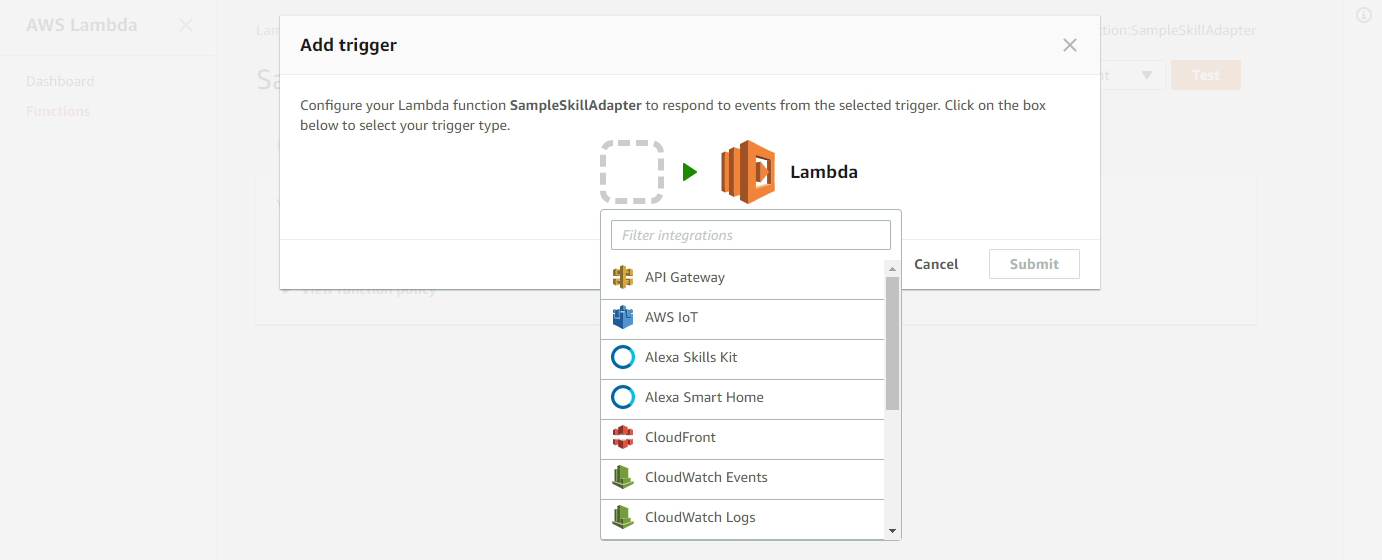
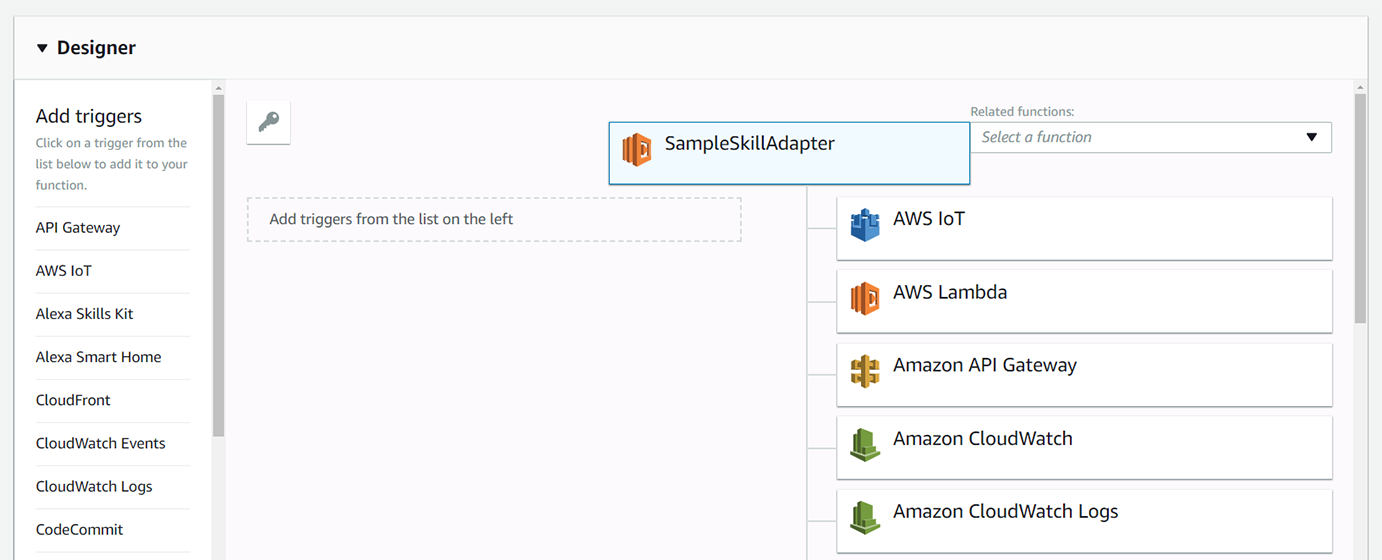
Documentation update for Sample Backend (#56)
Documentation fixes for sample_backend

Updating documentation to align with the code and new screenshots for interface updates.

More updates to Postman section

Correcting the documentation to work with as-built.

Updates to last sections of instructions

Fixed inconsistencies in the documentation with the as-built structure of the Events and Endpoints resources in Postman. Additionally, the images and naming of the AWS IoT device was corrected.

Updated Postman Collection including minor changes and bump to 2.1 version.

diff --git a/sample_backend/docs/006-setup-create-endpoints.md b/sample_backend/docs/006-setup-create-endpoints.md
@@ -1,83 +1,78 @@
 # Step 6: Create the Endpoints
 Create endpoints to be discovered during the Alexa Smart Home Skill Discovery.
 
+#### <span style="color:#aaa">6.1</span> Collect the User Id
+The JSON template for creating an endpoint defaults the User Id to `0`. This is useful for testing simulated calls to your AWS Lambda for a variety of directives with a known (invalid) User Id. To associate the device with an actual Amazon account, the correct User Id obtained with the access token must be used. During skill enablement, the credentials are saved to DynamoDB into the SampleUsers table for reference.
+> The credentials in the SampleUsers table are for development reference only and should be stored securely in a production environment.
 
-#### <span style="color:#aaa">6.1</span> Set Up Postman 
-Postman is a tool for managing and executing HTTP requests and is very useful for API development and usage.
+<span style="color:#ccc">6.2.1</span> Go to https://console.aws.amazon.com/dynamodb/home?region=us-east-1#tables:selected=SampleUsers and select the **Items** tab.
 
-##### <span style="color:#aaa">6.1.1</span> Install Postman 
-<span style="color:#ccc">6.1.1</span> Go to [getpostman.com](https://www.getpostman.com) and download and install the correct Postman application for your platform.
-
-<span style="color:#ccc">6.1.2</span> Download the Postman Sample Smart Home Collection from https://raw.githubusercontent.com/alexa/alexa-smarthome/master/sample_backend/lambda/lambda_api/sample_backend.postman_collection.json into the `Alexa-SmartHome-Sample` directory on your Desktop. 
-
-##### <span style="color:#aaa">6.1.2</span> Import the _Alexa Smart Home (sample_backend)_ Postman collection
-
-<span style="color:#ccc">6.1.2.1</span> Open Postman.
-
-<span style="color:#ccc">6.1.2.2</span> In Postman, click **Import** from the main menu and browse to the `sample_backend.postman_collection.json` file or drag it onto the _Import_ dialog. 
-
-##### <span style="color:#aaa">6.1.3</span> Create a Postman environment
-To fill out the variable values of the configuration use a Postman environment to store configuration-specific values.
-
-<span style="color:#ccc">6.1.3.1</span> In the top right of Postman, click the gear icon to open the _Environment options_ drop down menu and select **Manage Environments**.
-
-![Postman - Manage Environments](img/6.1.3.1-postman-manage-environments.png "Postman - Manage Environments")
-
-<span style="color:#ccc">6.1.3.2</span> In opened _MANAGE ENVIRONMENTS_ dialog, click the **Add** in the bottom right.
-
-<span style="color:#ccc">6.1.3.3</span> For the _Environment Name_ enter `Alexa Smart Home (sample_backend)`.
-
-<span style="color:#ccc">6.1.3.4</span> Add a **Key** value called  `aws_region` and set its **Value** to `us-east-1`.
-
-<span style="color:#ccc">6.1.3.5</span> Add another **Key** value called  `endpoint_api_id` and set its **Value** to the [EndpointApiId] value from the `config.txt` file.
-
-<span style="color:#ccc">6.1.3.6</span> Click the **Add** button again to save the environment settings.
-
-<span style="color:#ccc">6.1.3.6</span> Close the _MANAGE ENVIRONMENTS_ dialog and in the top right of Postman select the newly created _Alexa Smart Home (sample_backend)_ environment from the  environment drop down menu.
-
-#### <span style="color:#aaa">6.2</span> Create Endpoints 
-Use Postman to generate endpoints.
-
-<span style="color:#ccc">6.2.1</span> Browse to the AWS IoT console at https://console.aws.amazon.com/iotv2/home?region=us-east-1#/thinghub and note the existing _Things_, if any.
-
-<span style="color:#ccc">6.2.2</span> In Postman, select the **POST** _/endpoints_ resource from the left menu and then click the **Send** button in the top right.
-
-<span style="color:#ccc">6.2.3</span> Return to the [AWS IoT Things console](https://console.aws.amazon.com/iotv2/home?region=us-east-1#/thinghub) and refresh the page. A new `black_switch` Thing should be available.
-
-<span style="color:#ccc">6.2.4</span> Click on the `black_switch` Thing instance to inspect its attributes. They should look like the following:
-
-![black_switch Thing Inpection - Manage Environments](img/6.2.4-thing-inspection.png "black_switch Thing Inspection")
-
-> Note that the user_id is set to 0. This is a default value useful for development. However, Discovery for the Smart Home Skill would not find this device since it is expecting a user_id in the form of a profile from Login with Amazon.
-
-<span style="color:#ccc">6.2.5</span> Go to https://console.aws.amazon.com/dynamodb/home?region=us-east-1#tables:selected=SampleUsers and select the **Items** tab.
-
-<span style="color:#ccc">6.2.6</span> In the list of _SampleUsers_ select the first entry UserId that looks like the following format: 
+<span style="color:#ccc">6.2.2</span> In the list of _SampleUsers_ select the first entry UserId column that has the following format:
 ```
 amzn1.account.XXXXXXXXXXXXXXXXXXXXXXXXXXXX
 ```
-<span style="color:#ccc">6.2.7</span> Copy the UserId value and save it to the [user_id] section of the `config.txt` file.
+<span style="color:#ccc">6.2.3</span> Copy the UserId value and save it to the [user_id] section of the `config.txt` file. The User Id is used to identify devices associated with the Amazon account.
 
-<span style="color:#ccc">6.2.8</span> Return to the [AWS IoT Things console](https://console.aws.amazon.com/iotv2/home?region=us-east-1#/thinghub) and select the `black_switch` Thing to view its attributes.
+#### <span style="color:#aaa">6.2</span> Set Up Postman
+Postman is a tool for managing and executing HTTP requests and is very useful for API development and usage. To use it for the sample code, it must first be installed if not currently available on your system and have a sample environment configured for use.
 
-<span style="color:#ccc">6.2.9</span> In the top right of the `black_switch` attributes click **Edit**.
+##### <span style="color:#aaa">6.2.1</span> Install Postman
+<span style="color:#ccc">6.2.1</span> Go to [getpostman.com](https://www.getpostman.com) and download and install the correct Postman application for your platform.
 
-<span style="color:#ccc">6.2.10</span> On the _Edit black_switch_ attributes page, set the value of the _user_id_ **Attribute key** to the [user_id] stored in the `config.txt` file. This associates the `black_switch` thing with that user profile.
+<span style="color:#ccc">6.2.2</span> Download the Postman Sample Smart Home Collection from https://raw.githubusercontent.com/alexa/alexa-smarthome/master/sample_backend/lambda/lambda_api/sample_backend.postman_collection.json into the `Alexa-SmartHome-Sample` directory on your Desktop.
 
-> If you want to create other devices, repeat this section and update the POST body of the /endpoints call to look something like the following and click **Send** to POST it to the endpoint API:
+##### <span style="color:#aaa">6.2.2</span> Import the *Alexa Smart Home (sample\_backend)* Postman collection
 
-```
-{
-  "event": {
-    "endpoint": {
-    	"userId" : "INSERT_YOUR_USER_ID_FROM_CONFIG.TXT",
-    	"id": "white_switch",
-    	"state": "OFF",
-    	"type": "SWITCH"
-    }
-  }
-}
-```
+<span style="color:#ccc">6.2.2.1</span> Open Postman.
+
+<span style="color:#ccc">6.2.2.2</span> In Postman, click **Import** from the main menu and browse to the `sample_backend.postman_collection.json` file or drag it onto the _Import_ dialog.
+
+##### <span style="color:#aaa">6.2.3</span> Create a Postman environment
+To fill out the variable values of the configuration use a Postman environment to store configuration-specific values. The keys defined in double curly braces like `{{endpoint_api_id}}` will be auto-expanded in the URLs for the imported collection.
+
+<span style="color:#ccc">6.2.3.1</span> In the top right of Postman, click the gear icon to open the _Environment options_ drop down menu and select **Manage Environments**.
+
+![Postman - Manage Environments](img/6.2.3.1-postman-manage-environments.png "Postman - Manage Environments")
+
+<span style="color:#ccc">6.2.3.2</span> In opened _MANAGE ENVIRONMENTS_ dialog, click the **Add** in the bottom right.
+
+<span style="color:#ccc">6.2.3.3</span> For the _Environment Name_ enter `Alexa Smart Home (sample_backend)`.
+
+<span style="color:#ccc">6.2.3.4</span> Add a **Key** value called  `aws_region` and set its **Value** to `us-east-1`.
+
+<span style="color:#ccc">6.2.3.5</span> Add another **Key** value called  `endpoint_api_id` and set its **Value** to the [EndpointApiId] value from the `config.txt` file.
+
+<span style="color:#ccc">6.2.3.6</span> Click the **Add** button again to save the environment settings.
+
+<span style="color:#ccc">6.2.3.7</span> Close the _MANAGE ENVIRONMENTS_ dialog and in the top right of Postman select the newly created *Alexa Smart Home (sample\_backend)* environment from the  environment drop down menu.
+
+
+#### <span style="color:#aaa">6.3</span> Create Endpoints
+Use Postman to generate endpoints by selecting and sending stored requests from the Alexa Smart Home (sample_backend) collection.
+
+<span style="color:#ccc">6.3.1</span> In Postman, from the left _Collections_ menu select and open the *Alexa Smart Home (sample\_backend)* folder. In the *Endpoints* sub-folder, open the **POST** _/endpoints (Sample Black Switch)_ resource from the left menu.
+
+<span style="color:#ccc">6.3.2</span> In Postman, select the **POST** _/endpoints (Sample Black Switch)_ resource from the left menu and then select the Body tab to show the raw body that would be sent from this request.
+
+![Postman - Collections > Endpoints > Body](img\6.3.2-postman-collections-endpoints.png "Postman - Collections > Endpoints > Body")
+
+<span style="color:#ccc">6.3.3</span> In the JSON in the _raw_ section, replace the `userId` value (with a default of `0`) with your User Id from the config.txt file. This will associate the created thing with an Amazon account for device discovery.
+
+> Note that the user_id defaults to 0 because this is useful for development and identifying a device created programmatically. However, Discovery for the Smart Home Skill would not find this device since it is expecting a user_id in the form of a profile from Login with Amazon.
+
+<span style="color:#ccc">6.3.4</span> Once you have added your User Id value, click the **Send** button in the top right to send and create the endpoint.
+
+<span style="color:#ccc">6.3.5</span> Return to the [AWS IoT Things console](https://console.aws.amazon.com/iotv2/home?region=us-east-1#/thinghub) and refresh the page. A new thing of the type `SAMPLESWITCH` should be available. It's name will be a generated GUID.
+
+<span style="color:#ccc">6.3.6</span> Click on the thing identified with a thing type of `SAMPLESWITCH` to inspect its attributes. They should look something like the following:
+
+![AWS IoT - SAMPLESWITCH](img/6.3.6-thing-sampleswitch.png "AWS IoT - SAMPLESWITCH")
+
+The Globally Unique ID (GUID) representing the name of this device will correspond to an entry in the **SampleEndpointDetails** table that holds the details of the device for discovery. You can browse to the [SampleEndpointDetails DynamoDB Table](https://console.aws.amazon.com/dynamodb/home?region=us-east-1#tables:selected=SampleEndpointDetails) and view the items entry to see the details stored in AWS.
+
+With this Sample Switch Thing defined in the account you are using for Alexa, you should now be able to discover it as a virtual device.
+
+> If you want to create other devices, look at the other options in the samples provided in the Postman collection and update the userId value in the POST body of the resource. Click **Send** to POST it to the endpoint API
 
 <br>
 

diff --git a/sample_backend/docs/003-setup-create-skill-smarthome.md b/sample_backend/docs/003-setup-create-skill-smarthome.md
@@ -3,9 +3,9 @@ Create an Alexa Smart Home Skill that will process the Smart Home commands.
 
 #### <span style="color:#aaa">3.1</span> Navigate to the Alexa Skills page
 
-<span style="color:#ccc">3.1.1</span> In a web browser to the Amazon Developer Console at [https://developer.amazon.com/home.html](https://developer.amazon.com/home.html). If not already authenticated, you may have to _Sign In_ with your Amazon Developer Account . 
+<span style="color:#ccc">3.1.1</span> In a web browser to the Amazon Developer Console at [https://developer.amazon.com/home.html](https://developer.amazon.com/home.html). If not already authenticated, you may have to _Sign In_ with your Amazon Developer Account .
 
-<span style="color:#ccc">3.1.2</span> Select the _Alexa_ tab from the top menu. 
+<span style="color:#ccc">3.1.2</span> Select the _Alexa_ tab from the top menu.
 
 <span style="color:#ccc">3.1.3</span> On the _Get started with Alexa_ page and in the _Alexa Skills Kit_ box, click the **Get Started >** button.
 
@@ -15,13 +15,13 @@ Create an Alexa Smart Home Skill that will process the Smart Home commands.
 
 <span style="color:#ccc">3.2.1</span> On the _Skill Information_ tab, from the **Skill Type** radio buttons select **Smart Home Skill API**
 
-<span style="color:#ccc">3.2.2</span> Leave the language as English. 
+<span style="color:#ccc">3.2.2</span> Leave the language as English.
 
 > For more information on adding another language to your skill, see [Develop Smart Home Skills in Multiple Languages](https://developer.amazon.com/docs/smarthome/develop-smart-home-skills-in-multiple-languages.html).
- 
+
 <span style="color:#ccc">3.2.3</span> Enter `Sample Smart Home Skill` as the Name of the skill.
 
-<span style="color:#ccc">3.2.4</span> Under Payload Version, verify **v3 (preferred)** is selected. 
+<span style="color:#ccc">3.2.4</span> Under Payload Version, verify **v3 (preferred)** is selected.
 
 <span style="color:#ccc">3.2.5</span> Click **Save**
 
@@ -31,7 +31,7 @@ Create an Alexa Smart Home Skill that will process the Smart Home commands.
 
 ```
 amzn1.ask.skill.xxxxxxxx-xxxx-xxxx-xxxx-xxxxxxxxxxxx
-``` 
+```
 
 <span style="color:#ccc">3.3.2</span> Copy the Application Id value to the clipboard.
 
@@ -41,15 +41,17 @@ amzn1.ask.skill.xxxxxxxx-xxxx-xxxx-xxxx-xxxxxxxxxxxx
 
 <span style="color:#ccc">3.4.2</span> Click the **+ Add trigger** button.
 
-<span style="color:#ccc">3.4.3</span> In the _Add trigger_ dialog, click the empty box and then select **Alexa Smart Home** from the drop down menu.
+<span style="color:#ccc">3.4.3</span> In the _Configuration_ section, select **Alexa Smart Home** from the left menu.
 
 ![Trigger Dialog Example](img/3.4.3-lambda-trigger.png "Trigger Dialog Example")
 
-<span style="color:#ccc">3.4.4</span> Paste the Alexa Skill Application Id value from the clipboard into the _Application Id_ text box. If you no longer have the value on your clipboard, you can retrieve it from the [Alexa Skill Application Id] section of the `config.txt` file.
+![Trigger Dialog Example - Smart Home](img/3.4.4-lambda-trigger-smart-home.png "Smart Home Trigger Dialog Example")
 
-<span style="color:#ccc">3.4.5</span> Verify **Enable trigger** is checked and then click **Submit**. If successful, a "Successfully added the trigger..." message will be returned.
+<span style="color:#ccc">3.4.4</span> Select the _Alexa Smart Home - Configuration required_ box and locate the _Configure triggers_ section at the bottom of the page. Paste the Alexa Skill Application Id value from the clipboard into the _Application Id_ text box. If you no longer have the value on your clipboard, you can retrieve it from the [Alexa Skill Application Id] section of the `config.txt` file.
 
-<span style="color:#ccc">3.4.6</span> Close this tab and return to the _Sample Smart Home Skill_ in the Alexa Skills section of the Amazon Developer Console. 
+<span style="color:#ccc">3.4.5</span> Verify **Enable trigger** is checked and then click **Add**. To finish enabling the trigger, click **Save** for the function at the top right of the page.
+
+<span style="color:#ccc">3.4.6</span> Close this tab and return to the _Sample Smart Home Skill_ in the Alexa Skills section of the Amazon Developer Console.
 
 <span style="color:#ccc">3.4.7</span> Click **Next** to move to the _Sample Smart Home Skill_ Interaction model and then click **Next** again to move to the Configuration section.
 

diff --git a/sample_backend/docs/007-setup-test-endpoints.md b/sample_backend/docs/007-setup-test-endpoints.md
@@ -6,13 +6,13 @@ Now that the environment is in place and a test device has been created, test ou
 
 <span style="color:#ccc">7.1.1</span> Browse to https://echosim.io and login with your Amazon account.
 
-<span style="color:#ccc">7.1.2</span> Activate echosim.io by clicking and holding the speaker icon and give the command <span style="color:#199">"Discover Devices"</span>. Alexa should respond with <span style="color:blue">"Starting Discovery..."</span> with a description of the discovery process. 
+<span style="color:#ccc">7.1.2</span> Activate echosim.io by clicking and holding the speaker icon and give the command <span style="color:#199">"Discover Devices"</span>. Alexa should respond with <span style="color:blue">"Starting Discovery..."</span> with a description of the discovery process.
 
 <span style="color:#ccc">7.1.3</span> Return to https://alexa.amazon.com/ and select **Smart Home** from the left menu and then select **Devices** in the main window.
 
-<span style="color:#ccc">7.1.4</span> From the list of devices, not the inclusion of a **black switch** with a description of _Endpoint Description_ in the list of _Devices_.
+<span style="color:#ccc">7.1.4</span> From the list of devices, not the inclusion of a **Sample Black Switch** with a description of _A Sample Black Switch_ in the list of _Devices_.
 
-> Note If you are using an Echo device to issue a "Discover Devices" command, once discovery is complete, Alexa should respond <span style="color:blue">"I found one new switch called black switch."</span> or possibly with additional devices discovered.  Note the addition of a _black switch_ device to your list of devices.
+> Note If you are using an Echo device to issue a "Discover Devices" command, once discovery is complete, Alexa should respond <span style="color:blue">"I found one new switch called sample black switch."</span> or possibly with additional devices discovered.  Note the addition of a _Sample Black Switch_ device to your list of devices.
 
 > Optionally, for device discovery, you can browse to https://alexa.amazon.com/spa/index.html#appliances and click the **Discover** button at the bottom of the page.
 
@@ -20,10 +20,9 @@ Now that the environment is in place and a test device has been created, test ou
 
 <span style="color:#ccc">7.2.1</span> Activate echosim and give the command <span style="color:#199">"Turn on Black Switch"</span>. Alexa should respond with <span style="color:blue">"OK"</span>.
 
-<span style="color:#ccc">7.2.2</span> Return to the [AWS IoT Things console](https://console.aws.amazon.com/iotv2/home?region=us-east-1#/thinghub) and click on the `black_switch` Thing instance to inspect its attributes.
+<span style="color:#ccc">7.2.2</span> Return to the [AWS IoT Things console](https://console.aws.amazon.com/iotv2/home?region=us-east-1#/thinghub) and locate the Sample Black Switch Thing instance to inspect its attributes.
 
-<span style="color:#ccc">7.2.3</span> That `black_switch` Thing should reflect the state of the "ON" or "OFF" power voice command when the Thing is refreshed.
-
+<span style="color:#ccc">7.2.3</span> The Sample Black Switch thing attributes should reflect the state of the "ON" or "OFF" power voice command when the Thing is refreshed.
 
 <br>
 

diff --git a/sample_backend/docs/008-setup-send-an-event.md b/sample_backend/docs/008-setup-send-an-event.md
@@ -4,7 +4,7 @@ Send an external event into Alexa from the Endpoint Device backend. This simulat
 
 #### <span style="color:#aaa">8.1</span> Send a Proactive State Update
 
-<span style="color:#ccc">8.1.1</span> In Postman, select the **POST** _/events_ resource from the left menu.
+<span style="color:#ccc">8.1.1</span> In Postman, and within the *Endpoints* sub-folder, open the **POST** _/events_ resource from the left menu.
 
 <span style="color:#ccc">8.1.2</span> Select the _Body_ tab and view the raw JSON. It should look like the following:
 ```
@@ -12,30 +12,34 @@ Send an external event into Alexa from the Endpoint Device backend. This simulat
   "event": {
     "endpoint": {
     	"userId" : "0",
-    	"id": "black_switch",
+    	"id": "DEVICE_GUID",
     	"state": "OFF",
-    	"type": "SWITCH"
+    	"type": "SWITCH",
+        "sku": "SW00"
     }
   }
 }
 ```
-<span style="color:#ccc">8.1.3</span> Update the JSON by replacing the `"userId"` "0" value with the [user_id] stored in the `config.txt` file. When edited, it should something like the following:
+<span style="color:#ccc">8.1.3</span> Update the JSON by replacing the `"userId"` "0" value with the [user_id] stored in the `config.txt` file. Additionally, replace the `DEVICE_GUID` value with the Thing name from AWS IoT for the Sample Black Switch created. When edited, it should something like the following:
 ```
 {
   "event": {
     "endpoint": {
     	"userId" : "amzn1.account.XXXXXXXXXXXXXXXXXXXXXXXXXXXX",
-    	"id": "black_switch",
+    	"id": "b0dcb3f0-db26-4462-8cf1-15fc97972eac",
     	"state": "OFF",
-    	"type": "SWITCH"
+    	"type": "SWITCH",
+        "sku": "SW00"
     }
   }
 }
 ```
 
-<span style="color:#ccc">8.1.1</span> Click **Save** in the top right and then and then click the **Send** button. 
+<span style="color:#ccc">8.1.1</span> Click **Save** in the top right and then and then click the **Send** button.
 
-<span style="color:#ccc">8.1.2</span> Return to the [AWS IoT Things console](https://console.aws.amazon.com/iotv2/home?region=us-east-1#/thinghub) and note the _state_ value of the _black_switch_. The state should reflect the _"state"_ value passed in the body. For instance, if set to _"OFF"_, the _black_switch_ attribute _state_ will be set to _OFF_.
+<span style="color:#ccc">8.1.2</span> Return to the [AWS IoT Things console](https://console.aws.amazon.com/iotv2/home?region=us-east-1#/thinghub) and note the _state_ value of the created Sample Black Switch. The state should reflect the _"state"_ value passed in the body. For instance, if set to _"OFF"_, the attribute _state_ will be set to _OFF_.
+
+Finally, while that method updates the Endpoint Cloud data, you can see the state of the response sent to the Alexa event gateway in Postman on the right of the Response section. A 202 value of `Accepted` indicates the message was received. For a full list of Success responses and errors, visit the documentation at https://developer.amazon.com/docs/smarthome/send-events-to-the-alexa-event-gateway.html#success-response-and-errors. If ultimately successful, the state of the Sample Black Switch will change in the Alexa web and mobile applications.
 
 <br>
 

diff --git a/sample_backend/docs/005-setup-link-skill-smarthome.md b/sample_backend/docs/005-setup-link-skill-smarthome.md
@@ -20,7 +20,7 @@ With a completed Alexa Smart Home Skill configuration, the Alexa Skill Client ID
 
 <span style="color:#ccc">5.2.1</span> Go to https://alexa.amazon.com/ and select **Skills** from the left menu.
 
-> Tip: Replace the skill value at the end of https://alexa.amazon.com/spa/index.html#skills/beta/ALEXA_SKILL_ID to go directly to a skill. 
+> Tip: Replace the skill value at the end of https://alexa.amazon.com/spa/index.html#skills/beta/ALEXA_SKILL_ID to go directly to a skill.
 > For example, https://alexa.amazon.com/spa/index.html#skills/beta/amzn1.ask.skill.203e1508-e33b-4b63-8e0e-70b97e45408d
 
 
@@ -40,9 +40,7 @@ With a completed Alexa Smart Home Skill configuration, the Alexa Skill Client ID
 
 <span style="color:#ccc">5.2.7</span> On success, you should be presented with a window that reads "To continue, close this window to discover devices you can control with Alexa." Close this page and return to the _Sample Smart Home Skill_.
 
-<span style="color:#ccc">5.2.8</span> When redirected back to the Skill page, you will be prompted 'Discover Devices'. Click **Discover Devices** to start the device discovery process. This may take up to 20 seconds to complete.
-
-> No new devices from the Sample Smart Home Skill will be returned. This is expected.
+<span style="color:#ccc">5.2.8</span> When redirected back to the Skill page, you will be prompted 'Discover Devices'. Click **Cancel**  for now as no new devices from the Sample Smart Home Skill will be returned without additional configuration.
 
 <br>
 
